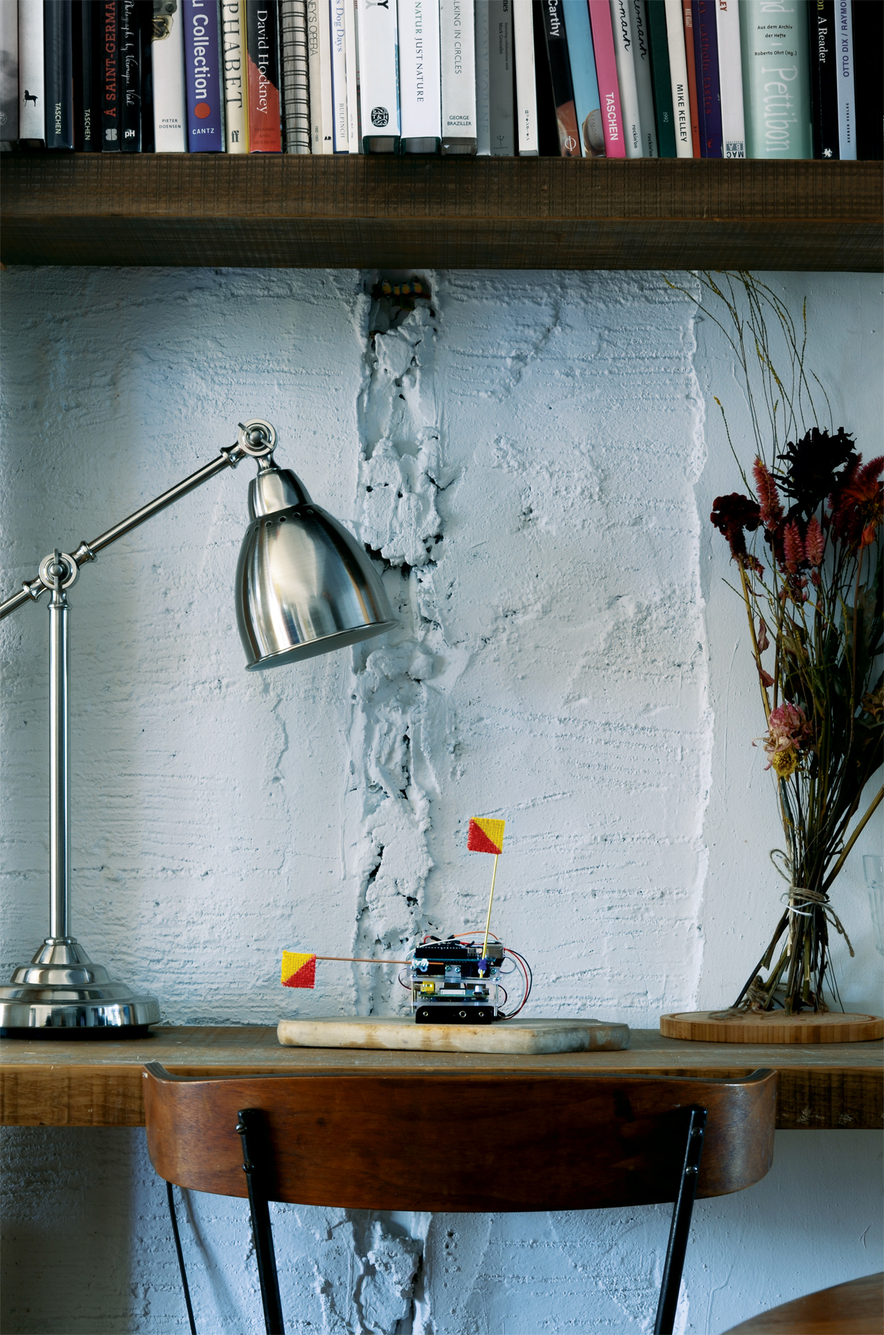
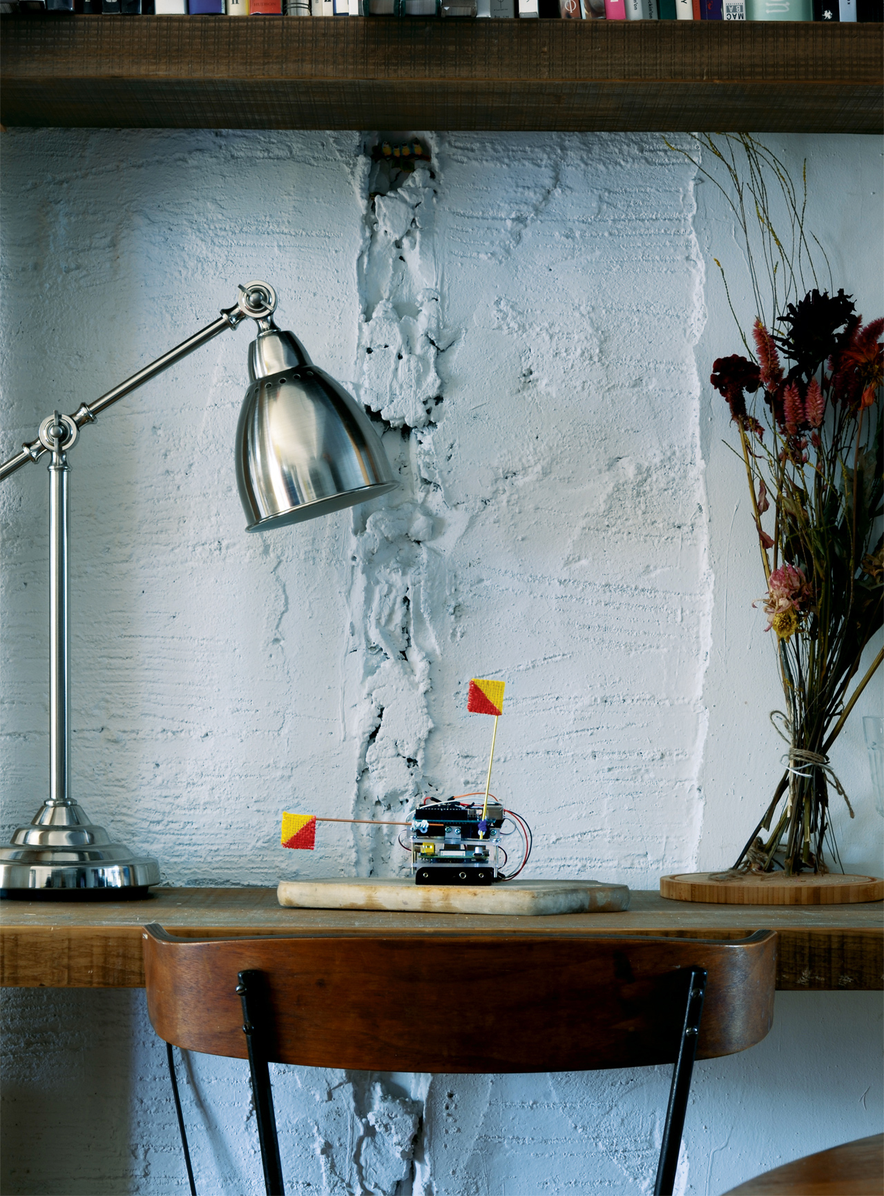
背景画像の位置修正

diff --git a/futuresemaphore/js/script-ck.js b/futuresemaphore/js/script-ck.js
@@ -1,1 +1,1 @@
-$(function(){function e(e,t,n){return e-Math.floor(n/t)%(e+1)}var t=$("#ground");$(function(){var e=$(window).width();e<1280?$(t).css({backgroundSize:"1280px"}):$(t).css({backgroundSize:"100%"})});window.onload=function(){window.onscroll=function(){var t=$(window).width(),n=document.documentElement.scrollTop?document.documentElement.scrollTop:window.pageYOffset,r=document.getElementById("ground"),i=e(1933,10,n);r.style.backgroundPosition="0 "+i+"px";t<1280?$(r).css({backgroundSize:"1280px"}):$(r).css({backgroundSize:"100%"})}};$(window).resize(function(){var e=$(window).width(),t=$(window).height();$("#ground").css({top:"0"});$("p5_canvas").css({width:e,height:t});var n=$("#ground");e<1280?$(n).css({backgroundSize:"1280px"}):$(n).css({backgroundSize:"100%"})});var n=$(".scroll-btn");$(n).click(function(){var e=$(n).index(this),t=$(".section").eq(e).offset().top-40;$("html,body").animate({scrollTop:t},"slow");return!1});var r=$(".logo-small");$(r).hide();$(window).scroll(function(){$(this).scrollTop()>750?$(r).fadeIn():$(r).fadeOut()})});
+$(function(){function e(e,t,n){return e-Math.floor(n/t)%(e+1)}var t=$("#ground");$(function(){var e=$(window).width();e<1280?$(t).css({backgroundSize:"1280px"}):$(t).css({backgroundSize:"100%"})});window.onload=function(){window.onscroll=function(){var t=$(window).width(),n=document.documentElement.scrollTop?document.documentElement.scrollTop:window.pageYOffset,r=document.getElementById("ground"),i=e(1733,3,n);r.style.backgroundPosition="0 "+i+"px";t<1280?$(r).css({backgroundSize:"1280px"}):$(r).css({backgroundSize:"100%"})}};$(window).resize(function(){var e=$(window).width(),t=$(window).height();$("#ground").css({top:"0"});$("p5_canvas").css({width:e,height:t});var n=$("#ground");e<1280?$(n).css({backgroundSize:"1280px"}):$(n).css({backgroundSize:"100%"})});var n=$(".scroll-btn");$(n).click(function(){var e=$(n).index(this),t=$(".section").eq(e).offset().top-40;$("html,body").animate({scrollTop:t},"slow");return!1});var r=$(".logo-small");$(r).hide();$(window).scroll(function(){$(this).scrollTop()>750?$(r).fadeIn():$(r).fadeOut()})});

diff --git a/futuresemaphore/js/script.js b/futuresemaphore/js/script.js
@@ -27,7 +27,7 @@ $(function() {
       var posY = (document.documentElement.scrollTop) ? document.documentElement.scrollTop : window.pageYOffset;
 
       var ground = document.getElementById('ground');
-      var groundparallax = calcParallax(1933, 10, posY);
+      var groundparallax = calcParallax(1733, 3, posY);
       ground.style.backgroundPosition = "0 " + groundparallax + "px";
 
       if(bgWidth < 1280){
